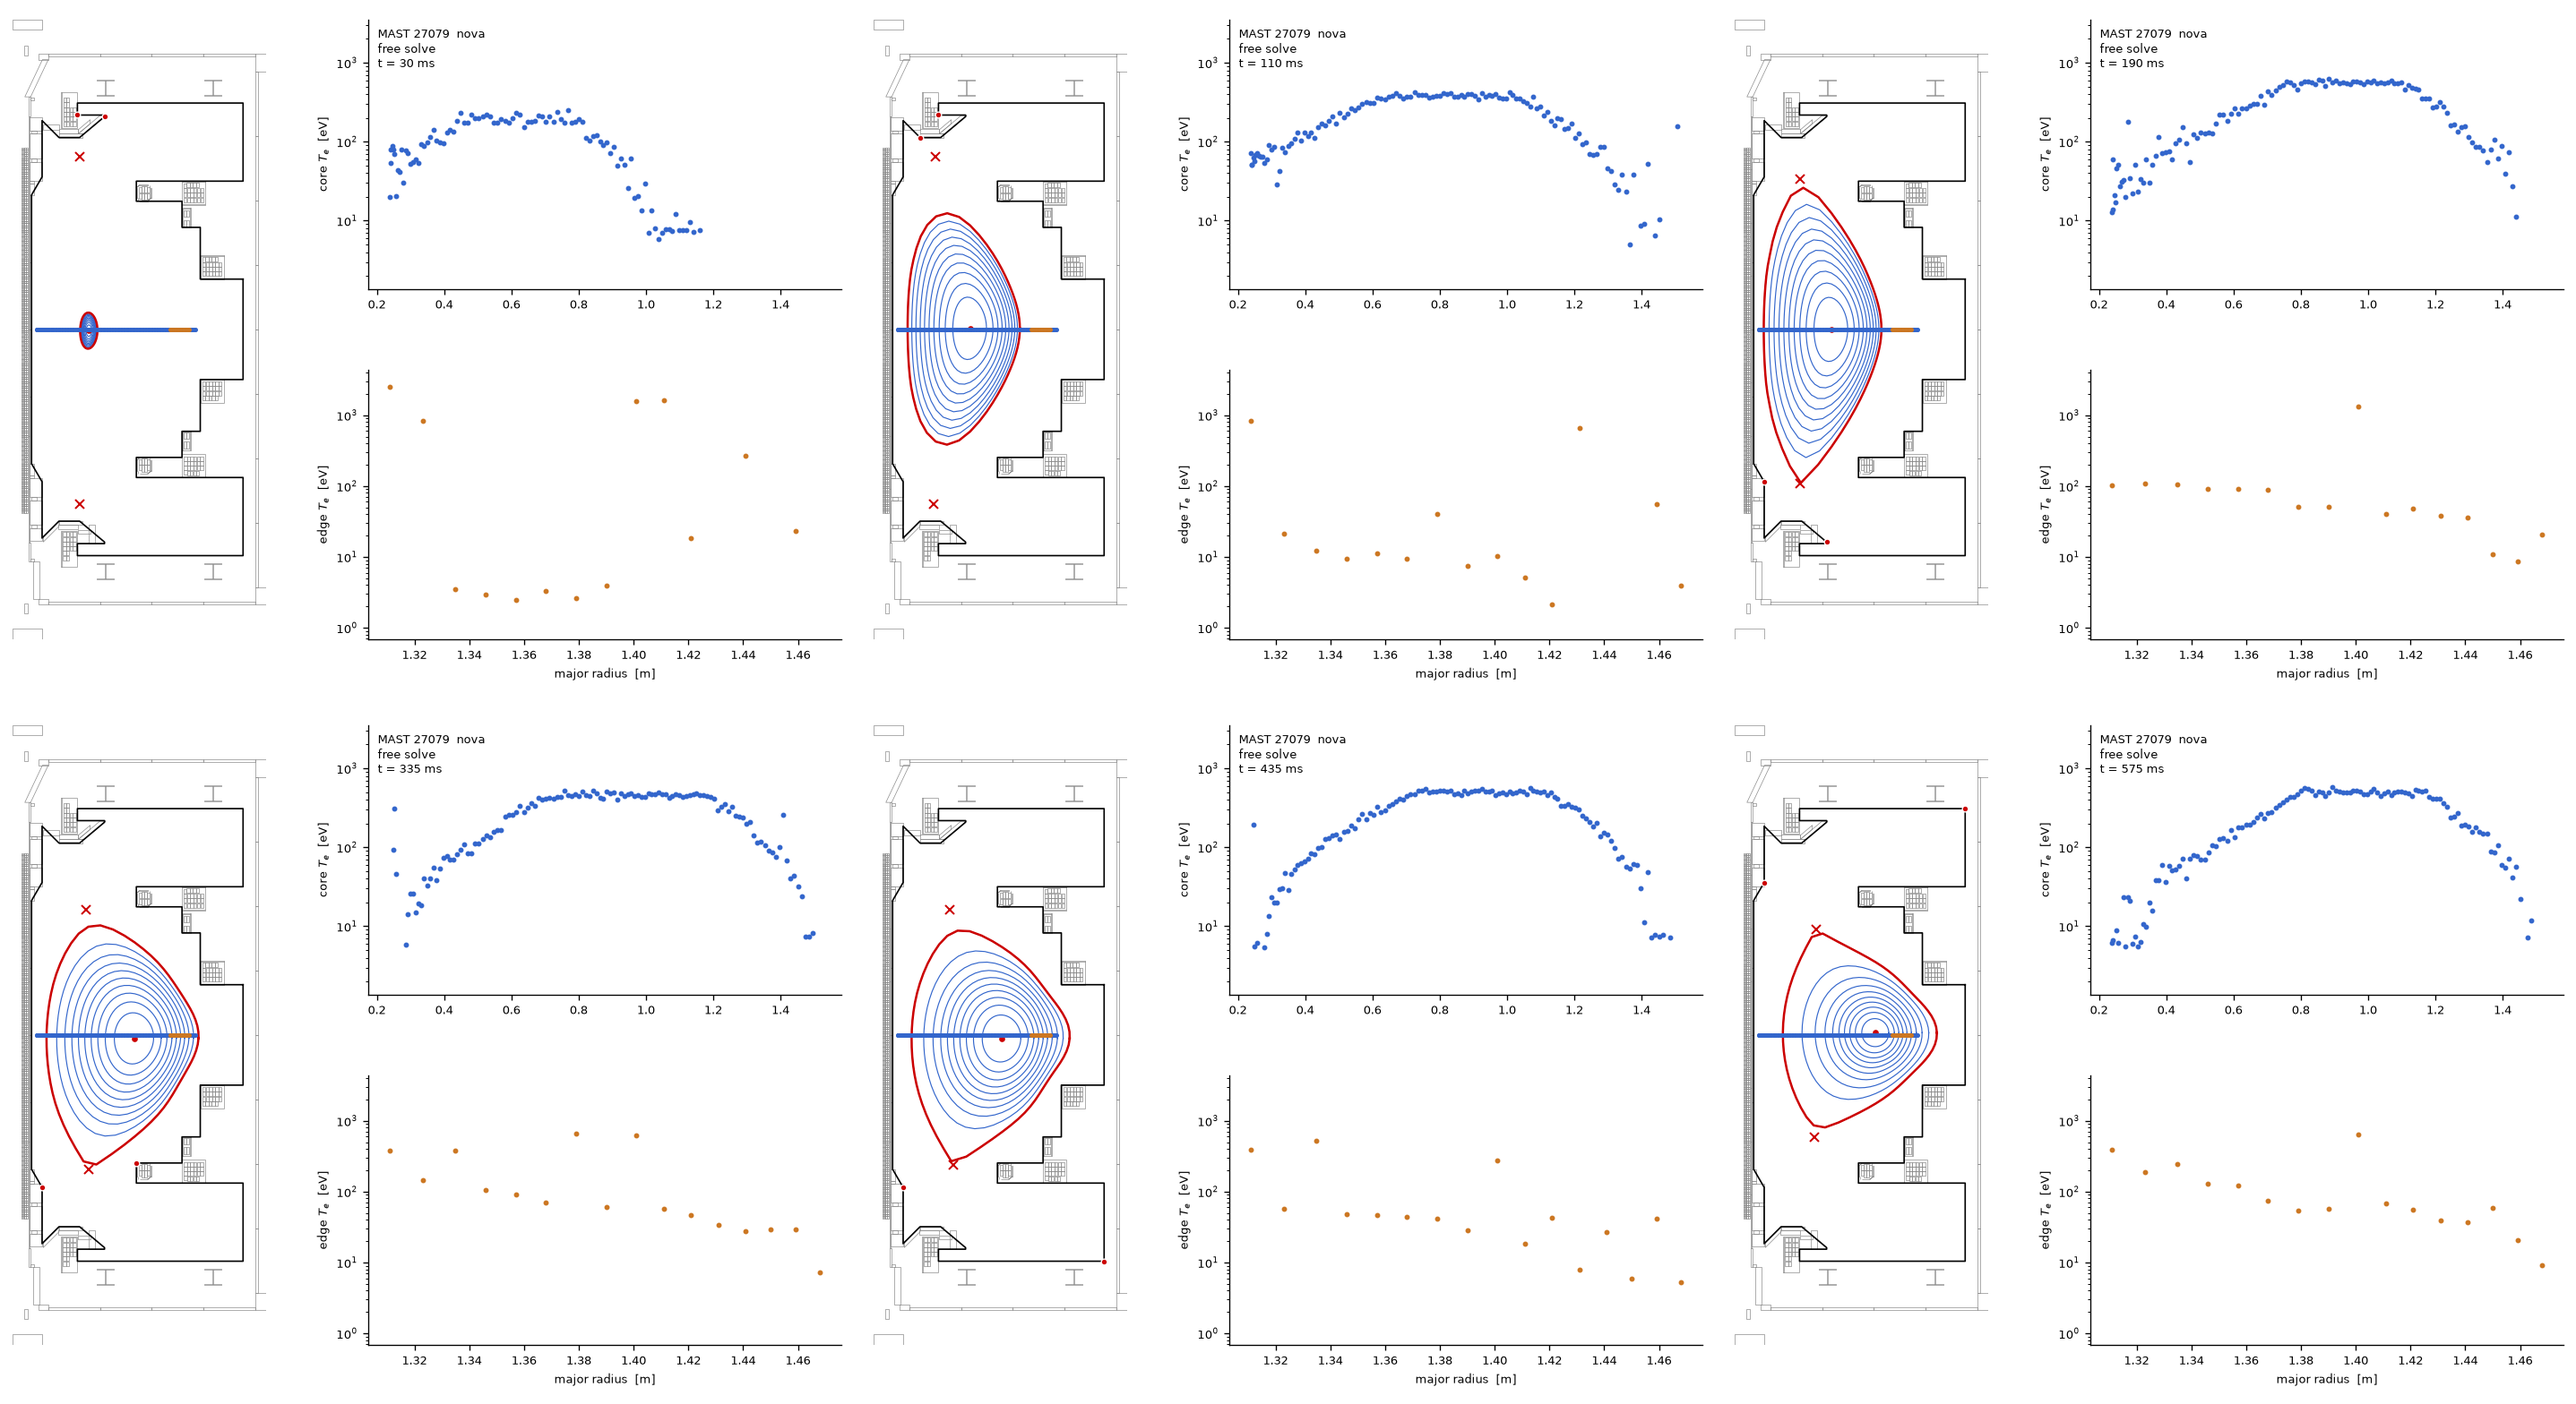
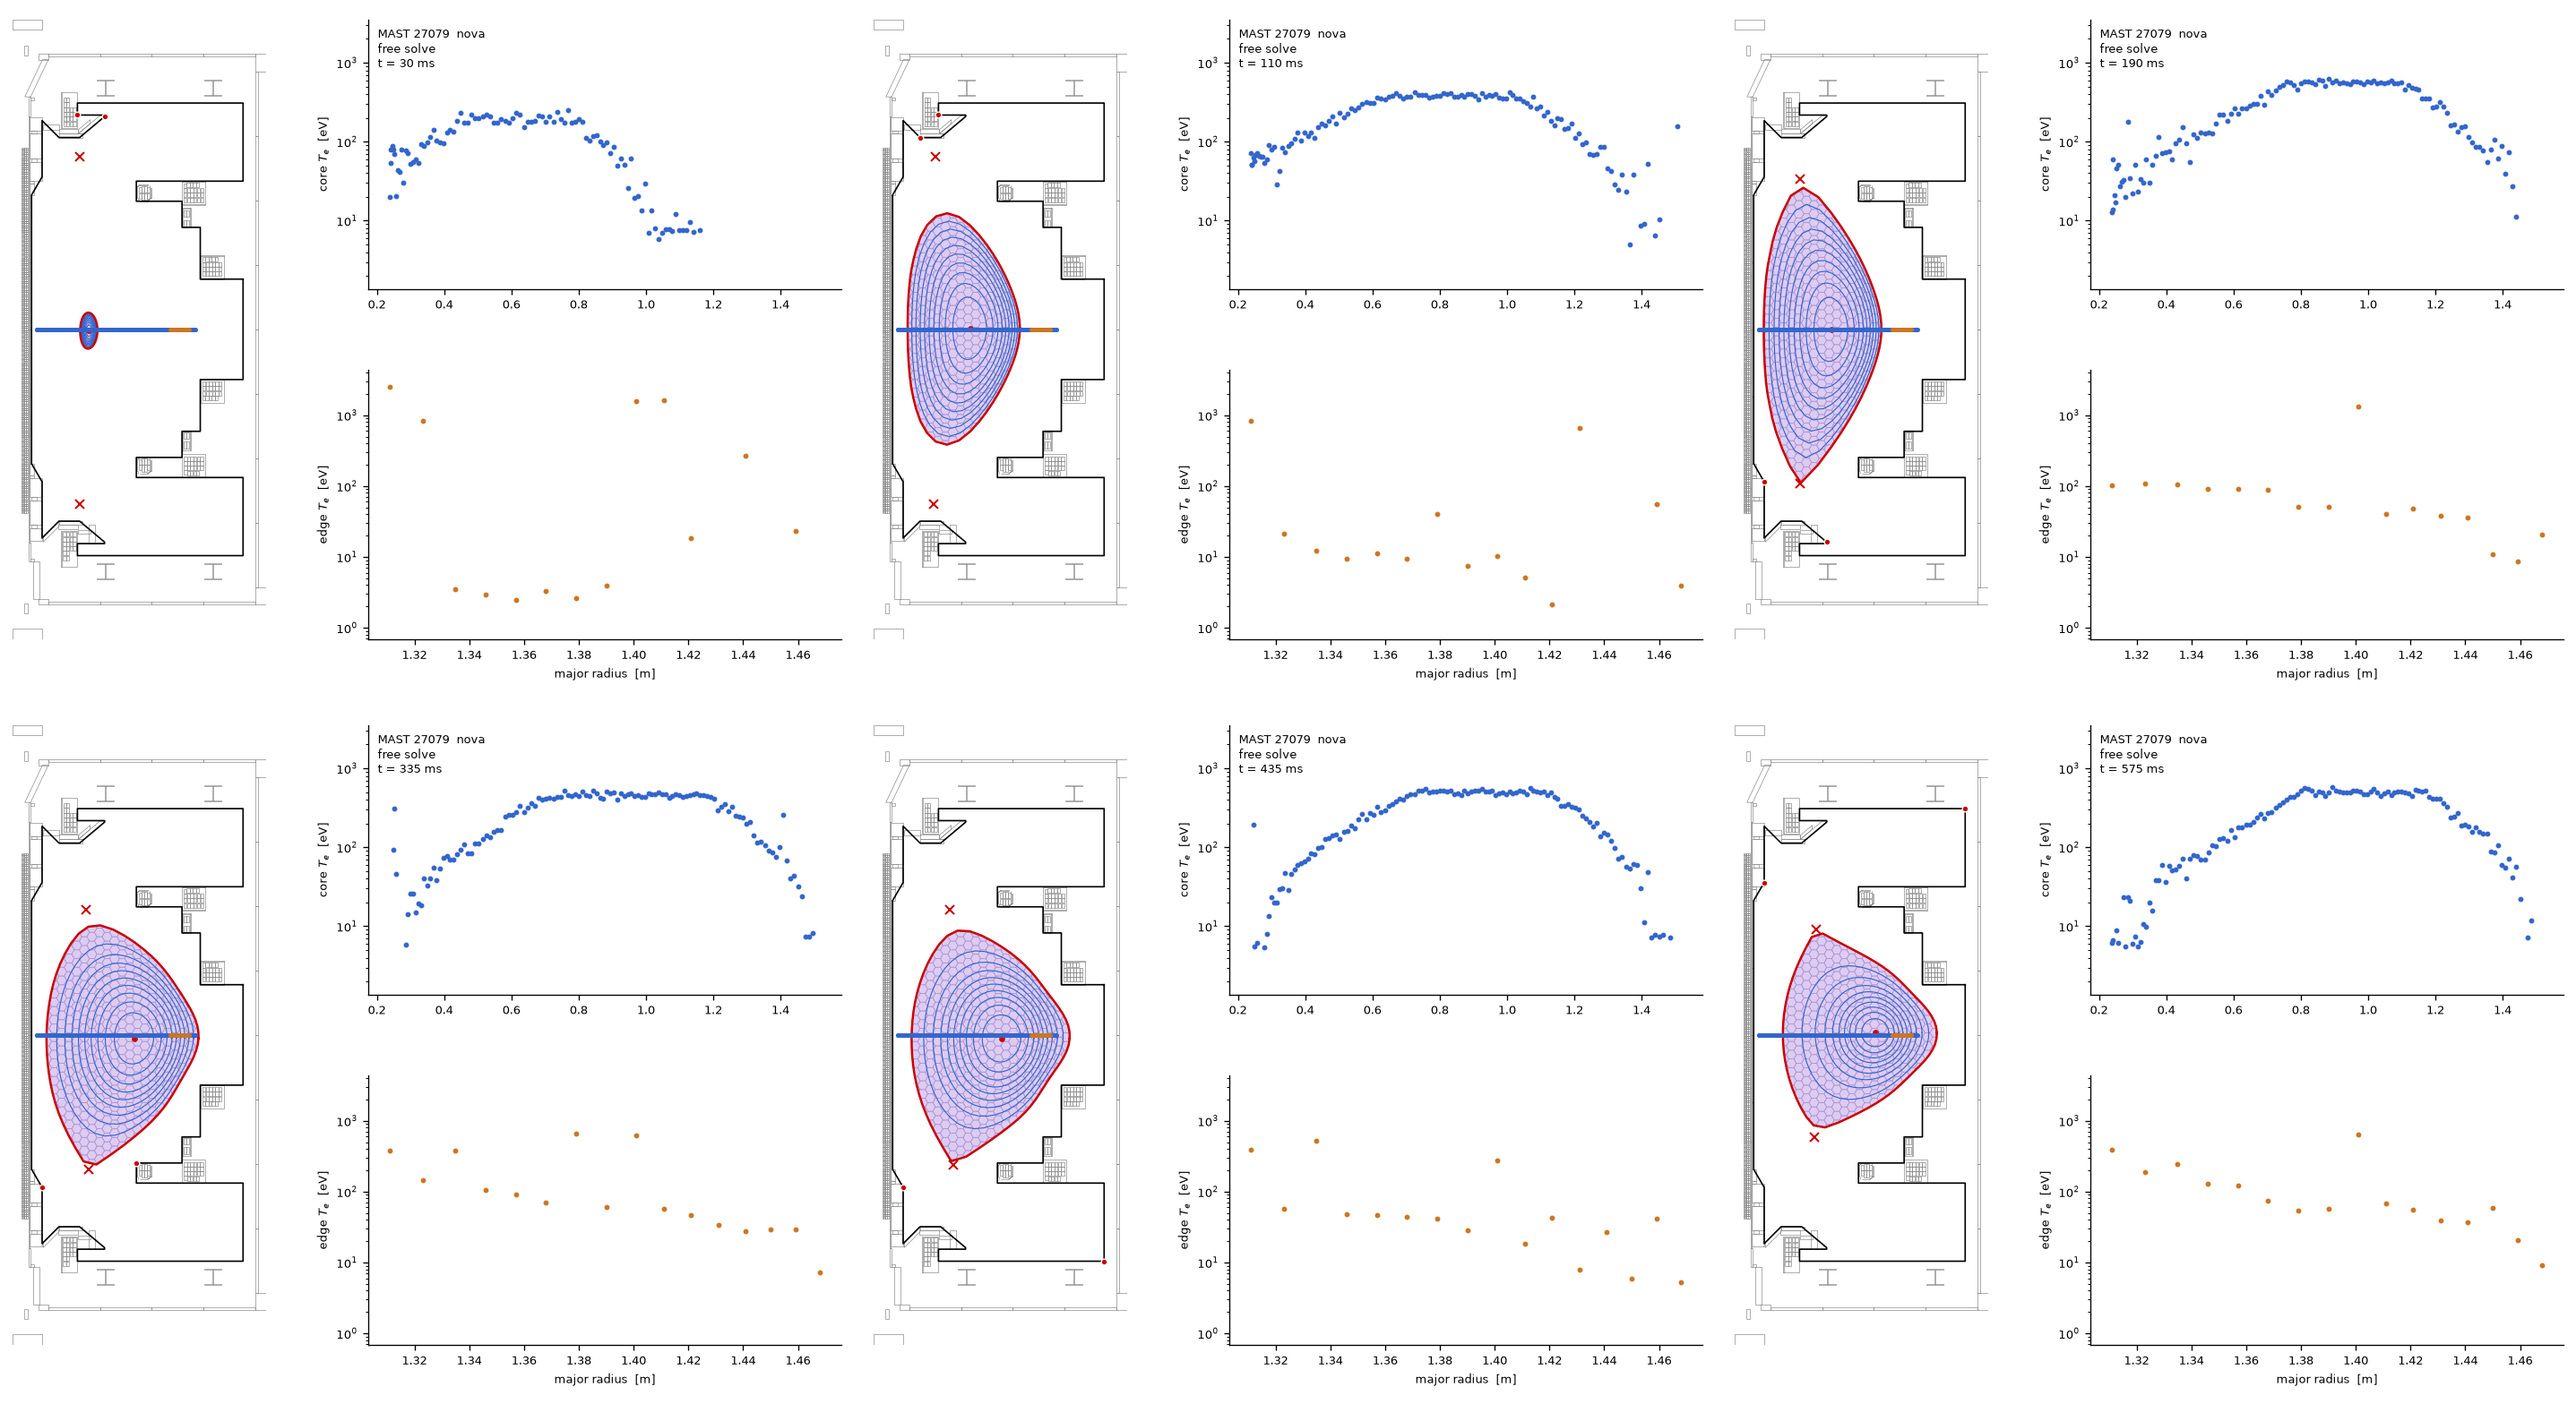
feat: draw the wall-clipped hex mesh under the nova surfaces
The plasma mesh needs no Biot build to draw. PlasmaGrid.insert tessellates
hexagons inside the first-wall curve and trims them to it as pure geometry:
1324 cells inside the MAST wall in 5.4 s on one core, with vertex counts from
four to twenty-eight where the wall cuts them. So the figure shows the
production cell geometry without a machine build, and the mesh is built once
because the tessellation belongs to the wall while only the cut changes.

The per-frame cut is a geometric intersection with the solved boundary
polygon, which is stated in the receipt rather than glossed: the interactive
poloidal view cuts each cell at the solved flux level, and a rasterless label
session carries no field to cut at. The two agree to the boundary polygon own
vertex spacing, and the flux cut is the more exact whenever a field exists.

Verified by area rather than by eye: the clipped cells tile the boundary
region to four decimal places at the first, middle and last frame -- 0.0318
against 0.0318, 1.2554 against 1.2554 and 1.3071 against 1.3071 square
metres -- so no cell is double counted and none is missing. Cells per frame
run from 15 at breakdown to 455 at full bore.

diff --git a/nova/media/sources/plasma_mesh.py b/nova/media/sources/plasma_mesh.py
@@ -1,0 +1,98 @@
+"""Build the hexagonal plasma mesh and clip it to a solved boundary.
+
+The mesh is pure geometry: :meth:`nova.frame.firstwall.PlasmaGrid.insert`
+tessellates hexagons inside a first-wall curve and trims them to it, which
+needs no Biot coupling and no solve -- measured at 5.4 s on one CPU core for
+1324 cells inside the MAST wall. So a figure can show the production cell
+geometry without paying for a machine build.
+
+The clip here is GEOMETRIC, against the boundary polygon, and that is a real
+difference from the interactive poloidal view worth stating rather than
+glossing: that view cuts each cell at the solved flux level through
+``AtomicCellMesh.clip``, which needs the flux field. A rasterless label
+session carries no field, only the boundary curve, so a cell straddling the
+boundary is intersected with the boundary polygon instead. The two agree
+wherever the boundary polygon and the flux contour agree, which is to within
+the polygon's own vertex spacing; the flux cut is the more exact of the two
+and should be preferred whenever a field is available.
+"""
+
+from __future__ import annotations
+
+from typing import Sequence
+
+import numpy as np
+
+
+def hex_mesh(
+    wall: np.ndarray, cells: int = 1200
+) -> tuple[tuple[np.ndarray, ...], dict]:
+    """Return the wall-clipped hexagonal cell outlines and their provenance.
+
+    ``cells`` is a target count, not a guarantee: the tessellation fits whole
+    hexagons to the wall, so the delivered count is reported rather than
+    assumed.
+    """
+    from nova.frame.coilset import CoilSet
+
+    outline = np.asarray(wall, dtype=float).reshape(-1, 2)
+    finite = outline[np.all(np.isfinite(outline), axis=1)]
+    if finite.shape[0] < 3:
+        raise ValueError("a first wall needs at least three finite vertices")
+    coilset = CoilSet(dplasma=-int(cells), tplasma="hex")
+    coilset.firstwall.insert([finite[:, 0].tolist(), finite[:, 1].tolist()], turn="hex")
+    frames = np.asarray(coilset.subframe["poly"], dtype=object)
+    outlines = tuple(
+        np.asarray(frame.boundary, dtype=float).reshape(-1, 2) for frame in frames
+    )
+    vertex_counts = np.asarray([len(item) for item in outlines])
+    return outlines, {
+        "requested_cells": int(cells),
+        "delivered_cells": len(outlines),
+        "turn": "hex",
+        "wall_clipped": True,
+        "vertex_count_range": [int(vertex_counts.min()), int(vertex_counts.max())],
+        "source": "nova.frame.firstwall.PlasmaGrid.insert",
+        "coupling": "none; cell geometry only, no Biot build",
+    }
+
+
+def clip_to_boundary(
+    cells: Sequence[np.ndarray], boundary: np.ndarray
+) -> tuple[np.ndarray, ...]:
+    """Return the parts of ``cells`` inside ``boundary``, each already cut.
+
+    A cell wholly outside the boundary is dropped and a cell straddling it is
+    returned as its clipped polygon, never as the whole hexagon -- drawing the
+    unclipped cell would overstate the plasma domain at exactly the boundary
+    the figure is about.
+    """
+    import shapely
+
+    loop = np.asarray(boundary, dtype=float).reshape(-1, 2)
+    loop = loop[np.all(np.isfinite(loop), axis=1)]
+    if loop.shape[0] < 3:
+        return ()
+    region = shapely.Polygon(loop)
+    if not region.is_valid:
+        region = region.buffer(0.0)
+    polygons = np.asarray(
+        [shapely.Polygon(np.asarray(cell, dtype=float)[:, :2]) for cell in cells],
+        dtype=object,
+    )
+    # Bounding-box prefilter first: most cells of a full-vessel mesh lie
+    # outside a given boundary, and an intersection is far dearer than a
+    # box test.
+    candidates = np.flatnonzero(shapely.intersects(polygons, region))
+    if candidates.size == 0:
+        return ()
+    pieces = shapely.intersection(polygons[candidates], region)
+    clipped = []
+    for piece in pieces:
+        if piece.is_empty or piece.area <= 0.0:
+            continue
+        for part in getattr(piece, "geoms", (piece,)):
+            if part.geom_type != "Polygon" or part.is_empty:
+                continue
+            clipped.append(np.asarray(part.exterior.coords, dtype=float))
+    return tuple(clipped)

diff --git a/scripts/media/nova_thomson_gif.py b/scripts/media/nova_thomson_gif.py
@@ -1,9 +1,10 @@
 """Animate Nova's solved surfaces beside the Thomson profiles they sample.
 
-Left: Nova's nested flux surfaces at their own absolute flux, the boundary,
-the divertor legs and the topology points, with the Thomson scattering volumes
-overlaid and coloured by system. Right: that system's measured profiles as the
-pulse steps, core above and edge below.
+Left: the wall-clipped hexagonal plasma mesh in light purple, cut to each
+frame's solved boundary, under Nova's nested flux surfaces at their own
+absolute flux with the boundary, divertor legs and topology points, and the
+Thomson scattering volumes overlaid and coloured by system. Right: that
+system's measured profiles as the pulse steps, core above and edge below.
 
 Both right-hand panels hold limits measured once over the whole pulse, so a
 channel that heats looks like a channel that heats rather than a still curve
@@ -47,11 +48,13 @@ def render_thomson(
     height: float = 6.5,
     quantile: float | None = 0.98,
     include_conditioned: bool = False,
+    cells: int = 1200,
 ) -> dict[str, object]:
     """Write the surfaces-and-Thomson animation and return its receipt."""
     from nova.media.sources.mast_efit import read_pulse
     from nova.media.sources.mast_thomson import read_thomson
     from nova.media.sources.nova_labels import read_labels
+    from nova.media.sources.plasma_mesh import clip_to_boundary, hex_mesh
 
     style = DEFAULT_INK
     frames, labels = read_labels(shot, free_only=not include_conditioned)
@@ -59,6 +62,10 @@ def render_thomson(
     if not strings:
         raise ValueError(f"MAST {shot} carries no Thomson system")
     machine = read_pulse(shot).geometry
+    # Built once: the tessellation is a property of the wall, and only the
+    # boundary cut changes between frames.
+    mesh, mesh_provenance = hex_mesh(machine.limiter, cells=cells)
+    clipped = [clip_to_boundary(mesh, frame.boundary) for frame in frames]
 
     palette = (style.thomson_primary_color, style.thomson_secondary_color)
     colour = {
@@ -87,6 +94,7 @@ def render_thomson(
     def render(index: int) -> None:
         frame = frames[index]
         view.clear()
+        pol.draw_plasma_cells(view.poloidal, clipped[index])
         pol.draw_surfaces(view.poloidal, frame.surfaces)
         pol.draw_coils(view.poloidal, machine.coils)
         pol.draw_wall(view.poloidal, *machine.limiter.T)
@@ -134,7 +142,16 @@ def render_thomson(
     receipt |= {
         "machine": "MAST",
         "pulse": str(shot),
-        "left_panel": "nova nested flux surfaces, rasterless",
+        "left_panel": "nova nested flux surfaces over the clipped hex mesh",
+        "plasma_mesh": mesh_provenance
+        | {
+            "boundary_clip": "geometric intersection with the solved boundary "
+            "polygon; a rasterless session carries no flux field to cut at",
+            "clipped_cell_count_range": [
+                min(len(item) for item in clipped),
+                max(len(item) for item in clipped),
+            ],
+        },
         "conditioned_frames_drawn": sum(1 for f in frames if f.conditioned),
         "profile_limits_fixed": True,
         "profile_limit_quantile": quantile,
@@ -167,6 +184,7 @@ def main(argv: list[str] | None = None) -> int:
     parser.add_argument("--duration", type=float, default=10.0)
     parser.add_argument("--height", type=float, default=6.5)
     parser.add_argument("--quantile", type=float, default=0.98)
+    parser.add_argument("--cells", type=int, default=1200)
     parser.add_argument(
         "--include-conditioned",
         action="store_true",
@@ -183,6 +201,7 @@ def main(argv: list[str] | None = None) -> int:
         height=arguments.height,
         quantile=arguments.quantile,
         include_conditioned=arguments.include_conditioned,
+        cells=arguments.cells,
     )
     (arguments.output / f"{name}-receipt.json").write_text(
         json.dumps(receipt, indent=2, sort_keys=True, default=str)
